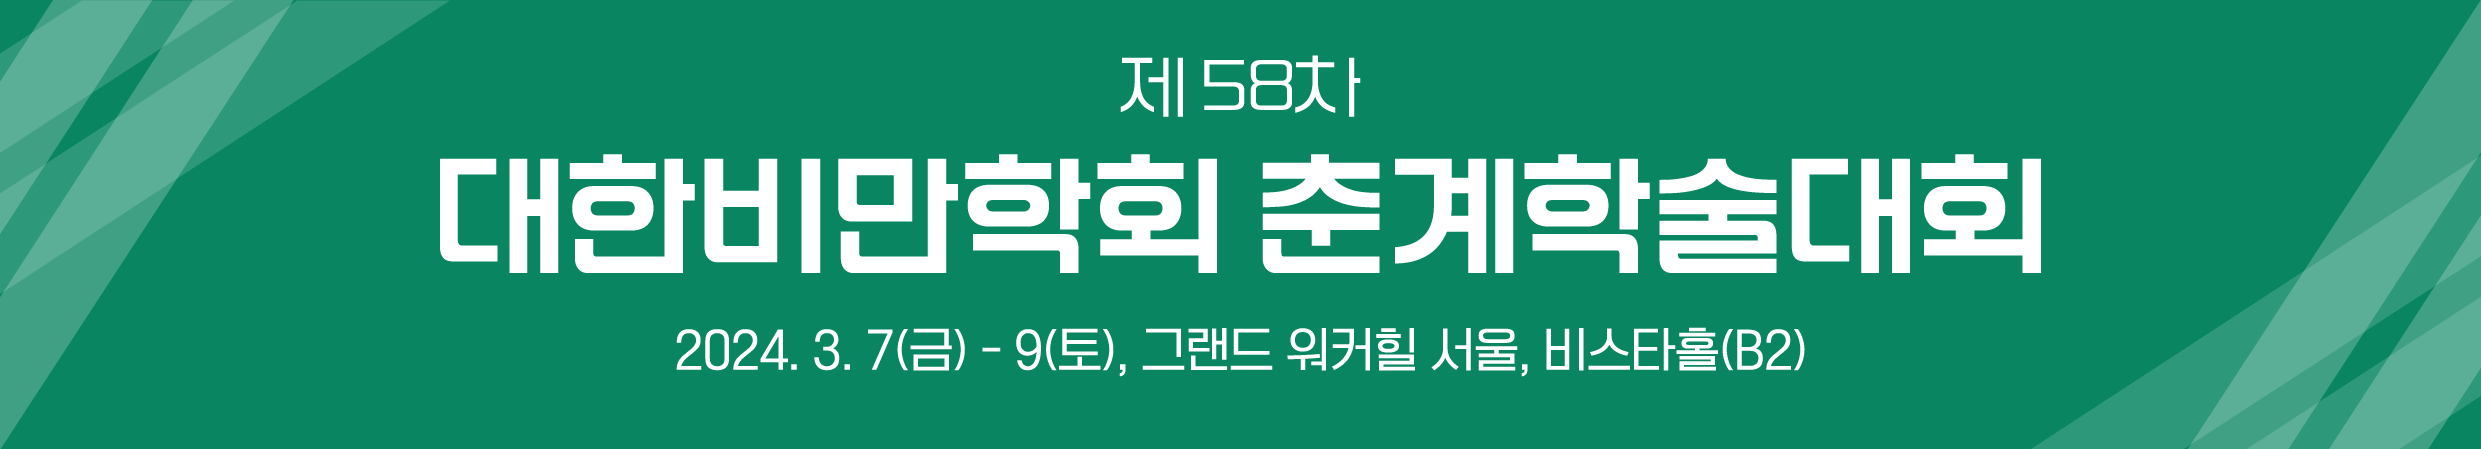
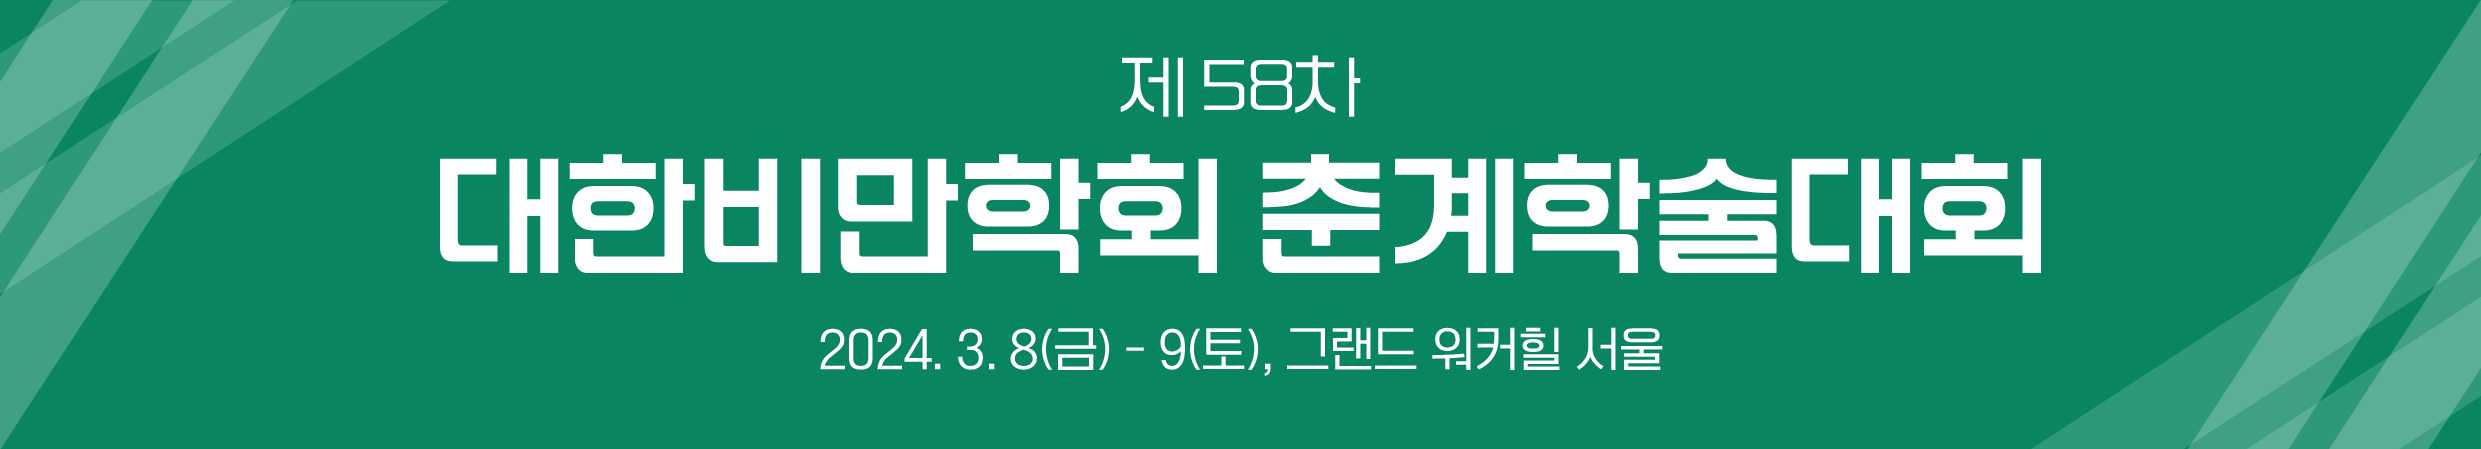
edit img change

Changed region(s): [[0.2793, 0.7171, 0.7449, 0.8419]]

diff --git a/main/css/style2.css b/main/css/style2.css
@@ -815,6 +815,7 @@ br.br_530_only {display: none;}
 	.m_nav_wrap {display: block; overflow: hidden;}
 	.nav_wrap, .dday_wrap, .g_h_tool {display:none;}
 	.g_h_logo img {height:40px;}
+	.g_h_bottom {padding: 0!important;}
 	/* .g_h_tool + .tablet_show {display:inline-block; position: absolute; top: 50%; right: 0; transform: translateY(-50%);} */
 	/* .g_h_tool + .tablet_show {display:inline-block; position: absolute; top: 50%; right: 0; transform: translateY(-50%);} */
 	.g_h_top .m_nav_btn img { filter: invert(1); }

diff --git a/main/css/style3.css b/main/css/style3.css
@@ -573,7 +573,8 @@ div.bg input[type=button]{background-color: #383d5b; border-color: #383d5b; colo
 	
 	/* header > fixed_btn */
 	.dday_wrap {display: none;}
-	
+	.g_h_bottom {padding: 0;}
+
 	/* main */
 	.section_bg  {background:url("/main/img/main_mb.png") no-repeat top 60px right /cover;}
 	/*.section_bg  {padding-top: 60px; background-position: center top 60px; border:1px solid;}*/

diff --git a/main/venue.php b/main/venue.php
@@ -68,7 +68,7 @@ $during_yn = sql_fetch($sql_during)['yn'];
 
 //오늘 날짜 구하기 d_day 구하기
 $today = date("Y. m. d");
-$d_day = new DateTime("2024-03-07");
+$d_day = new DateTime("2024-03-08");
 
 $current_date = new DateTime();
 $current_date->format('Y-m-d');

diff --git a/main/include/head.php b/main/include/head.php
@@ -115,7 +115,7 @@
 	//오늘 날짜 구하기 d_day 구하기
 	$today = date("Y. m. d");
 
-	$d_day = new DateTime("2024-03-07");
+	$d_day = new DateTime("2024-03-08");
 
 	$current_date = new DateTime();
 	$current_date->format('Y-m-d');
